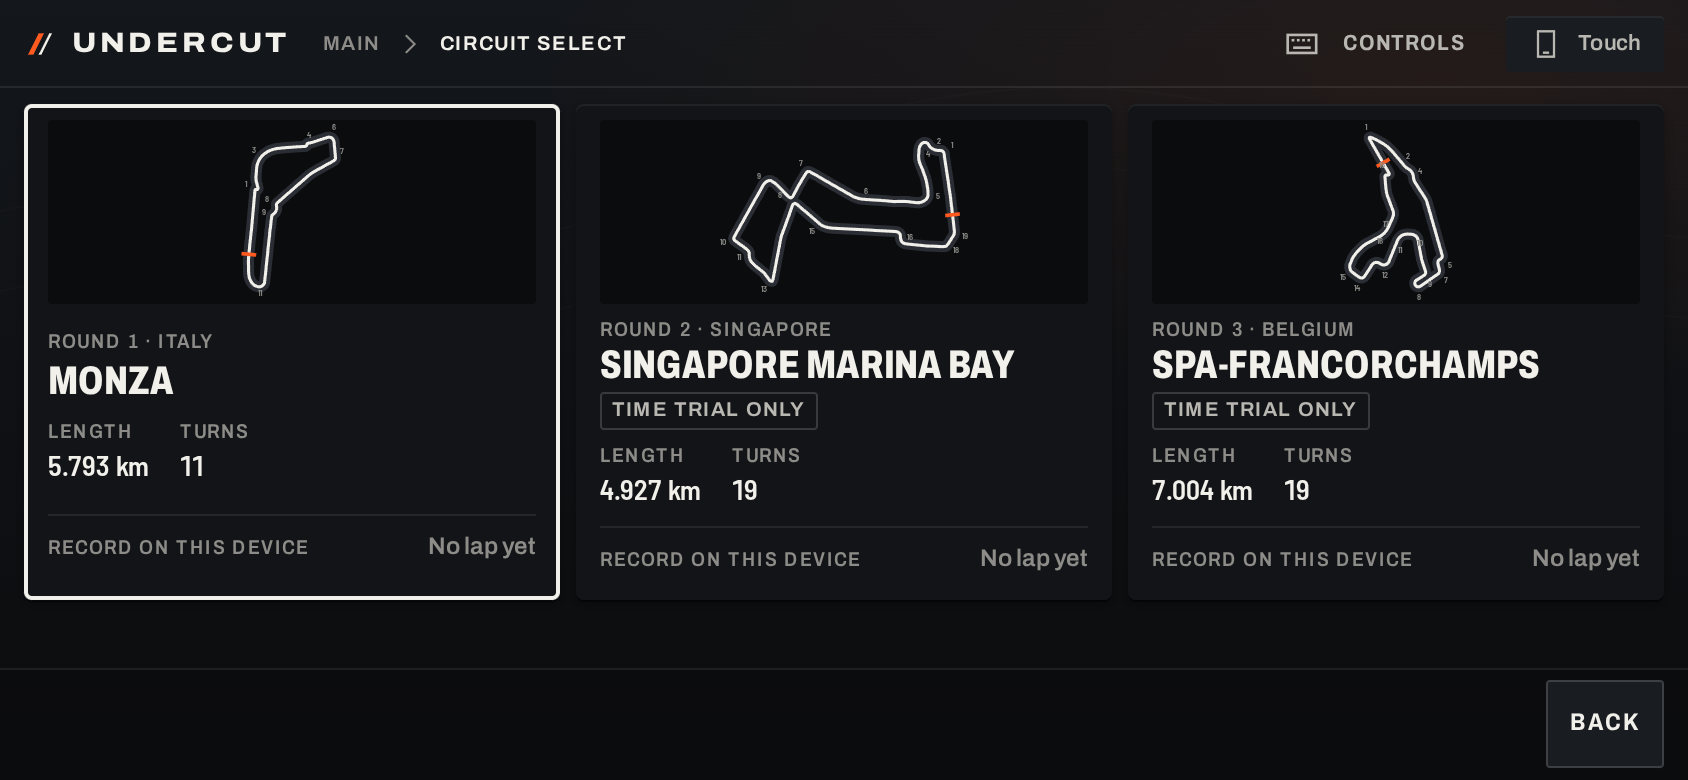
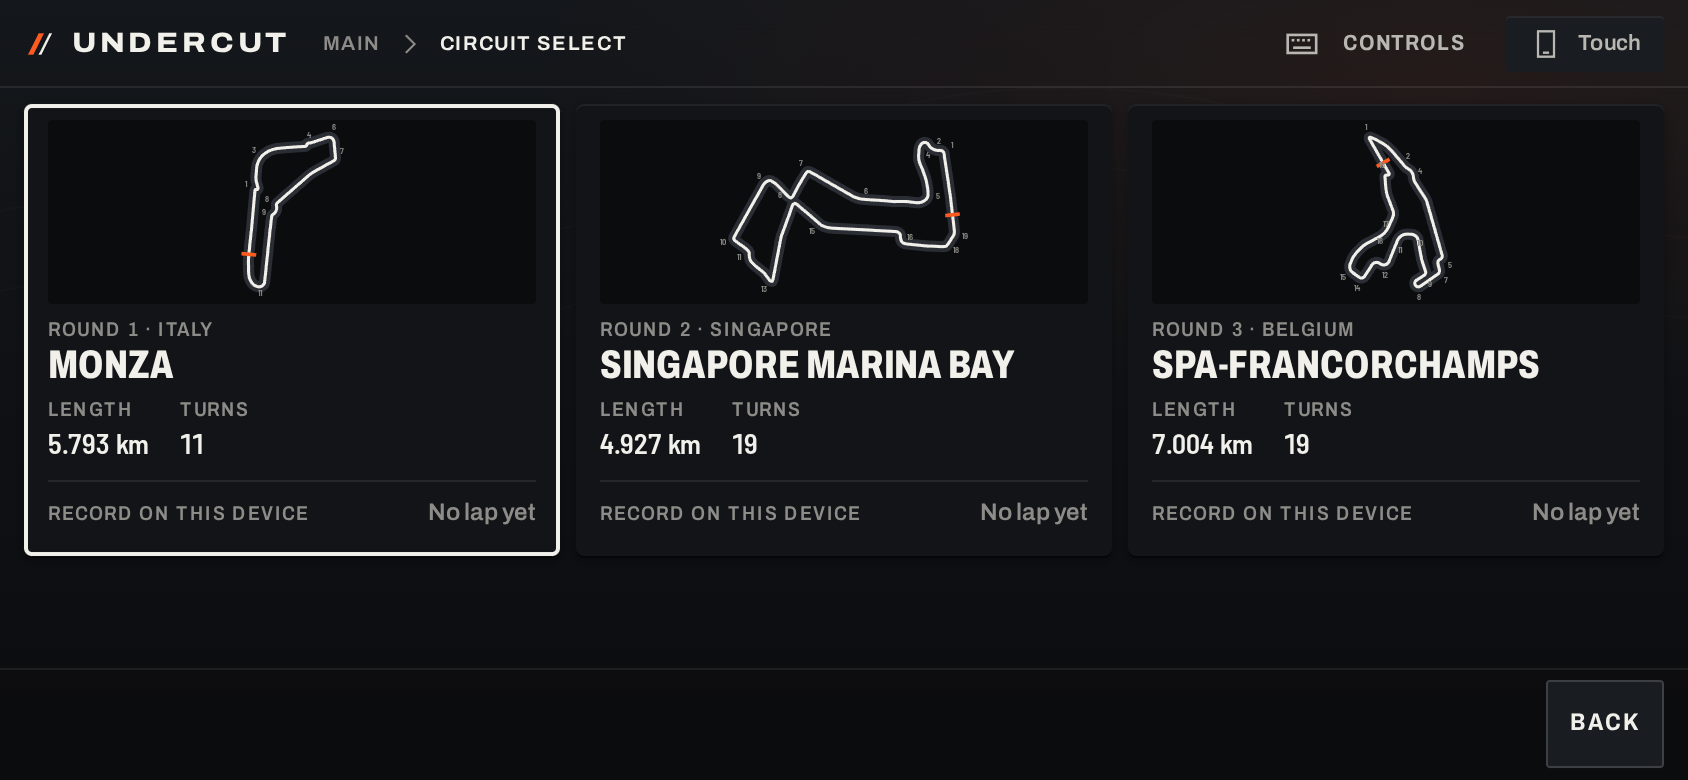
Refresh UI evidence after the Spa and Singapore racing lines

diff --git a/docs/evidence/m2-ui/REVIEW.md b/docs/evidence/m2-ui/REVIEW.md
@@ -41,7 +41,7 @@ Captured with `node tools/screenshots/ui-shots.mjs` against the production build
 
 8. **Three circuits after Spa and Singapore landed (`circuits-1440x900.png`, `circuits-844x390.png`)**
    - On desktop Monza's tall plan widened its card's content past the card edge ("Race laps" and the record cut off): the card's grid track is now pinned to the card width, and the three cards fill the row. On a phone the cards wrapped to a second row below the fold: they now sit three across in a compact form (smaller plan, two facts), with the screen title left to the breadcrumb.
-   - Spa and Singapore carry a "Time Trial only" mark (no AI racing line yet); the race-mode notice says why in one sentence.
+   - Spa and Singapore carried a "Time Trial only" mark until their AI racing lines landed (#32); a circuit without one still gets the mark, and the race-mode notice says why in one sentence. Braking help is disabled, with the reason, where no driving line exists for the player's car (Spa and Singapore for now).
 9. **Tower footer wrapped "Singapore Marina Bay" onto two lines (`hud-drive-1440x900.png`)**
    - The map already names the circuit, so the tower's footer now shows only the ghost: "On track" or "After a valid lap".
 
